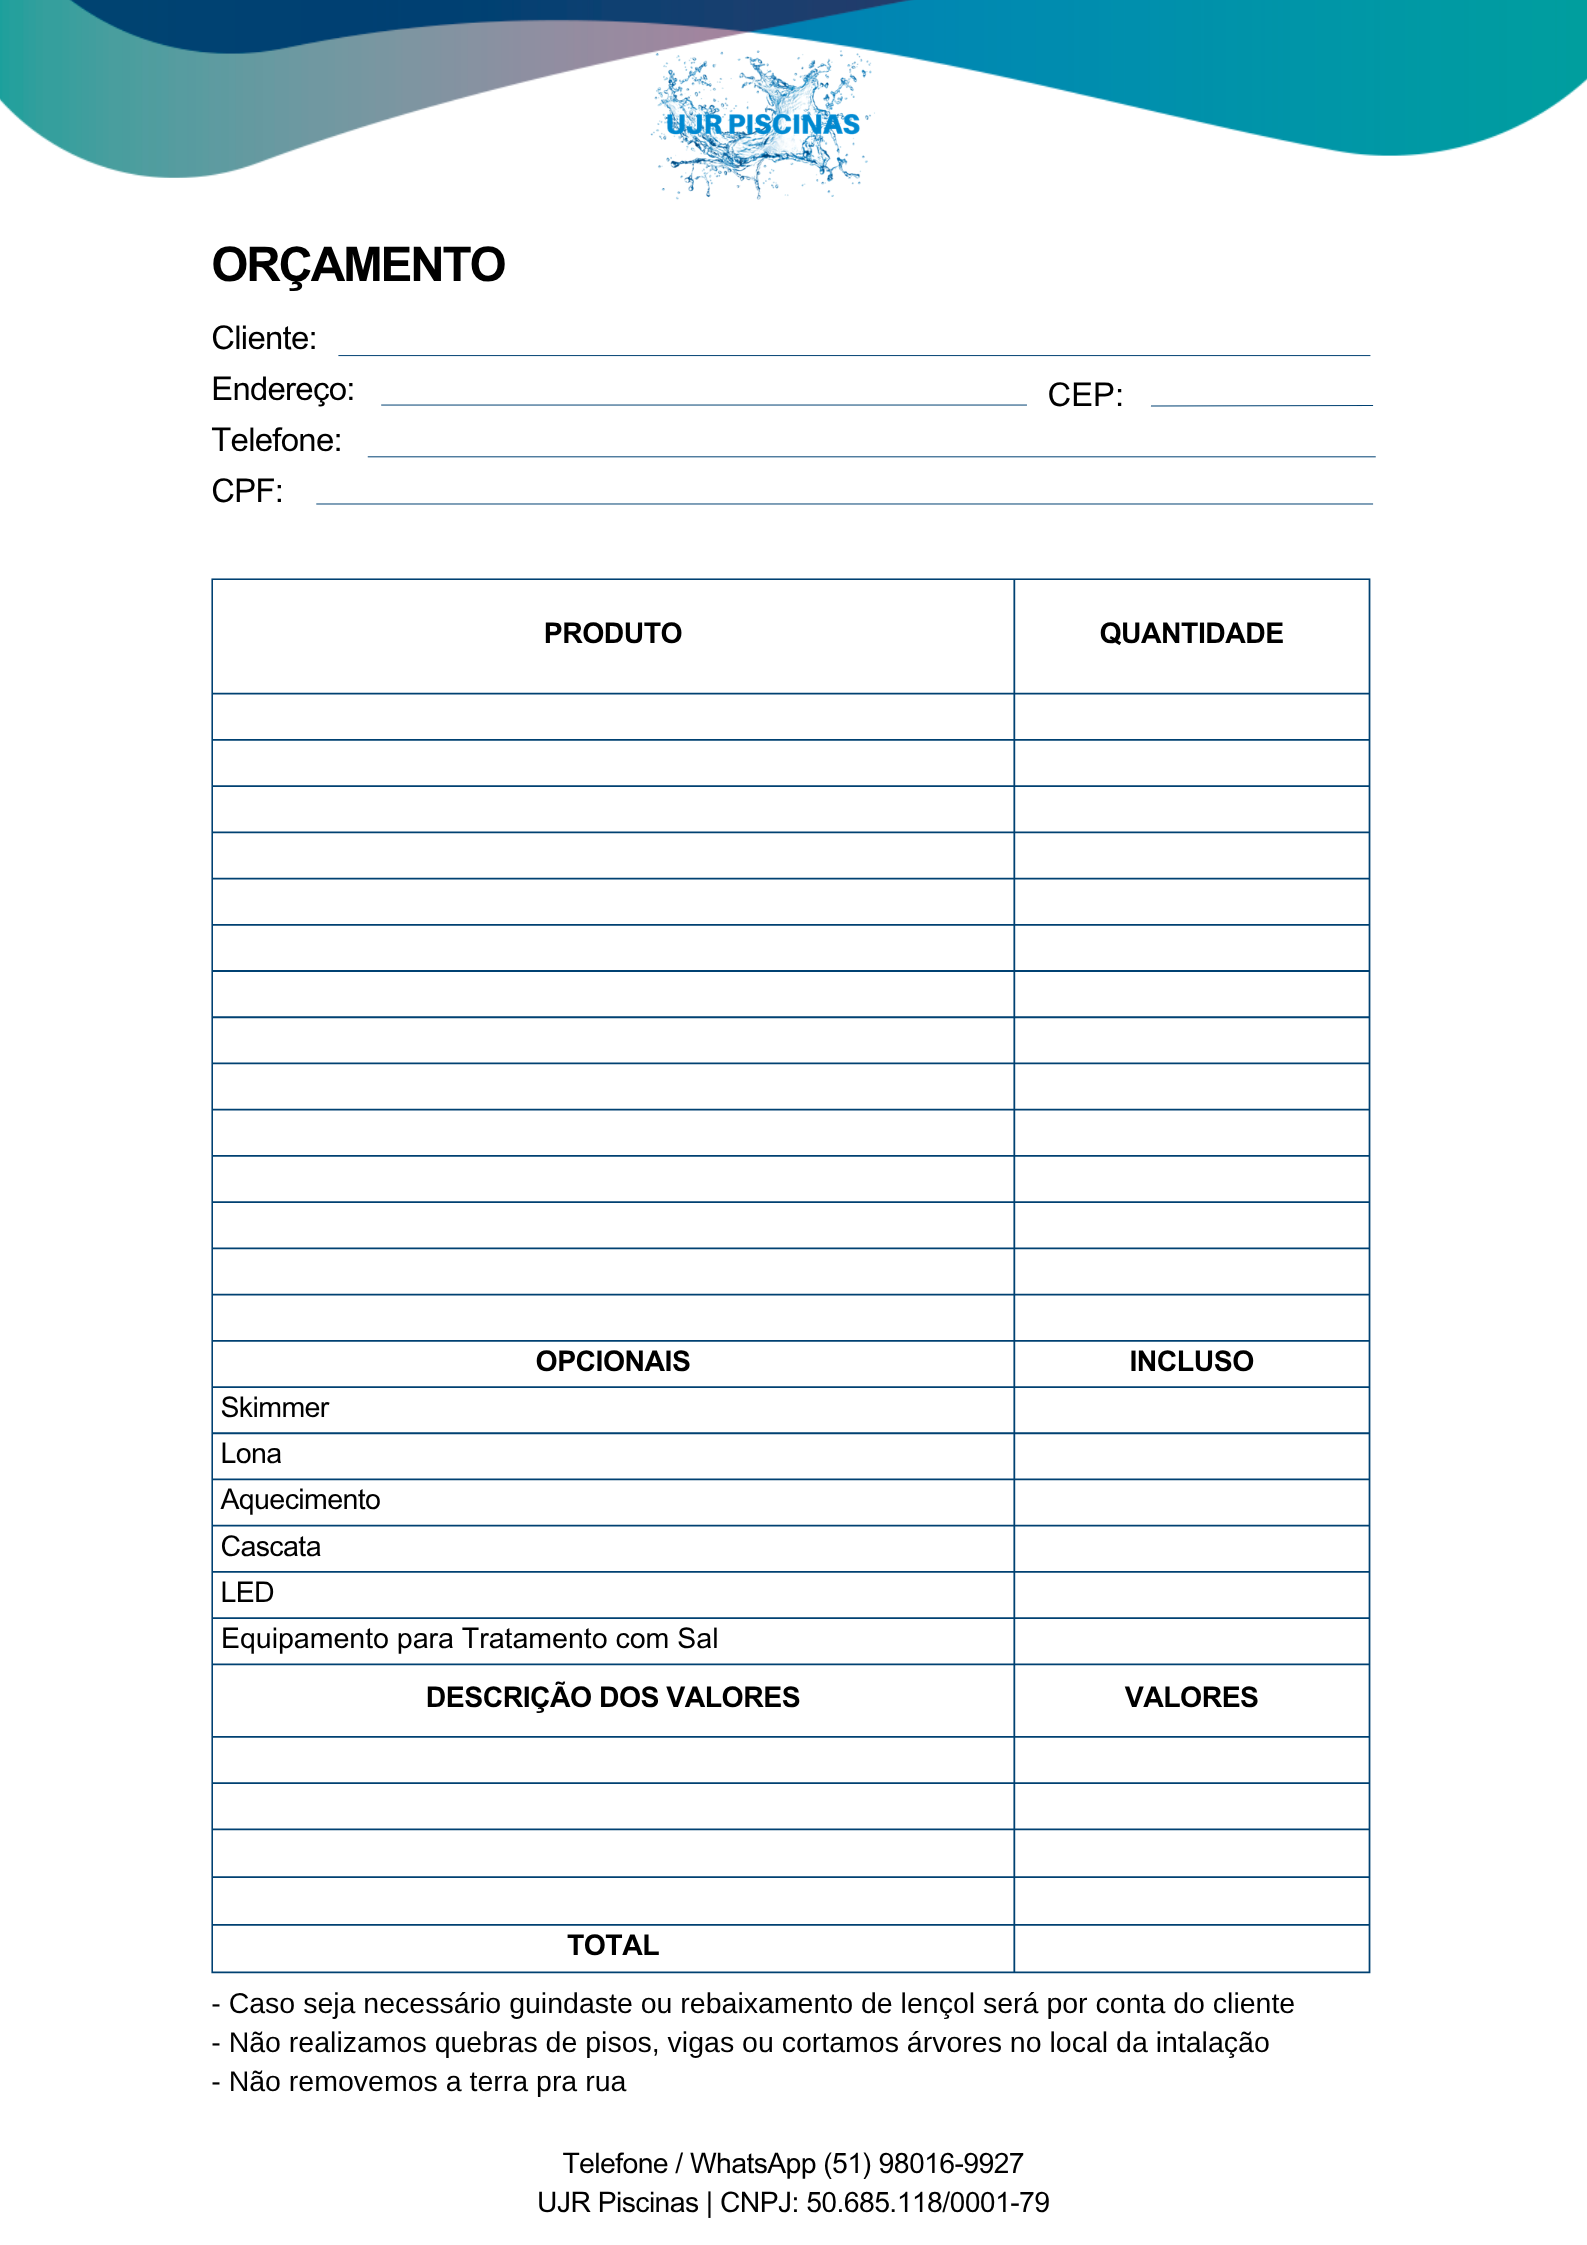
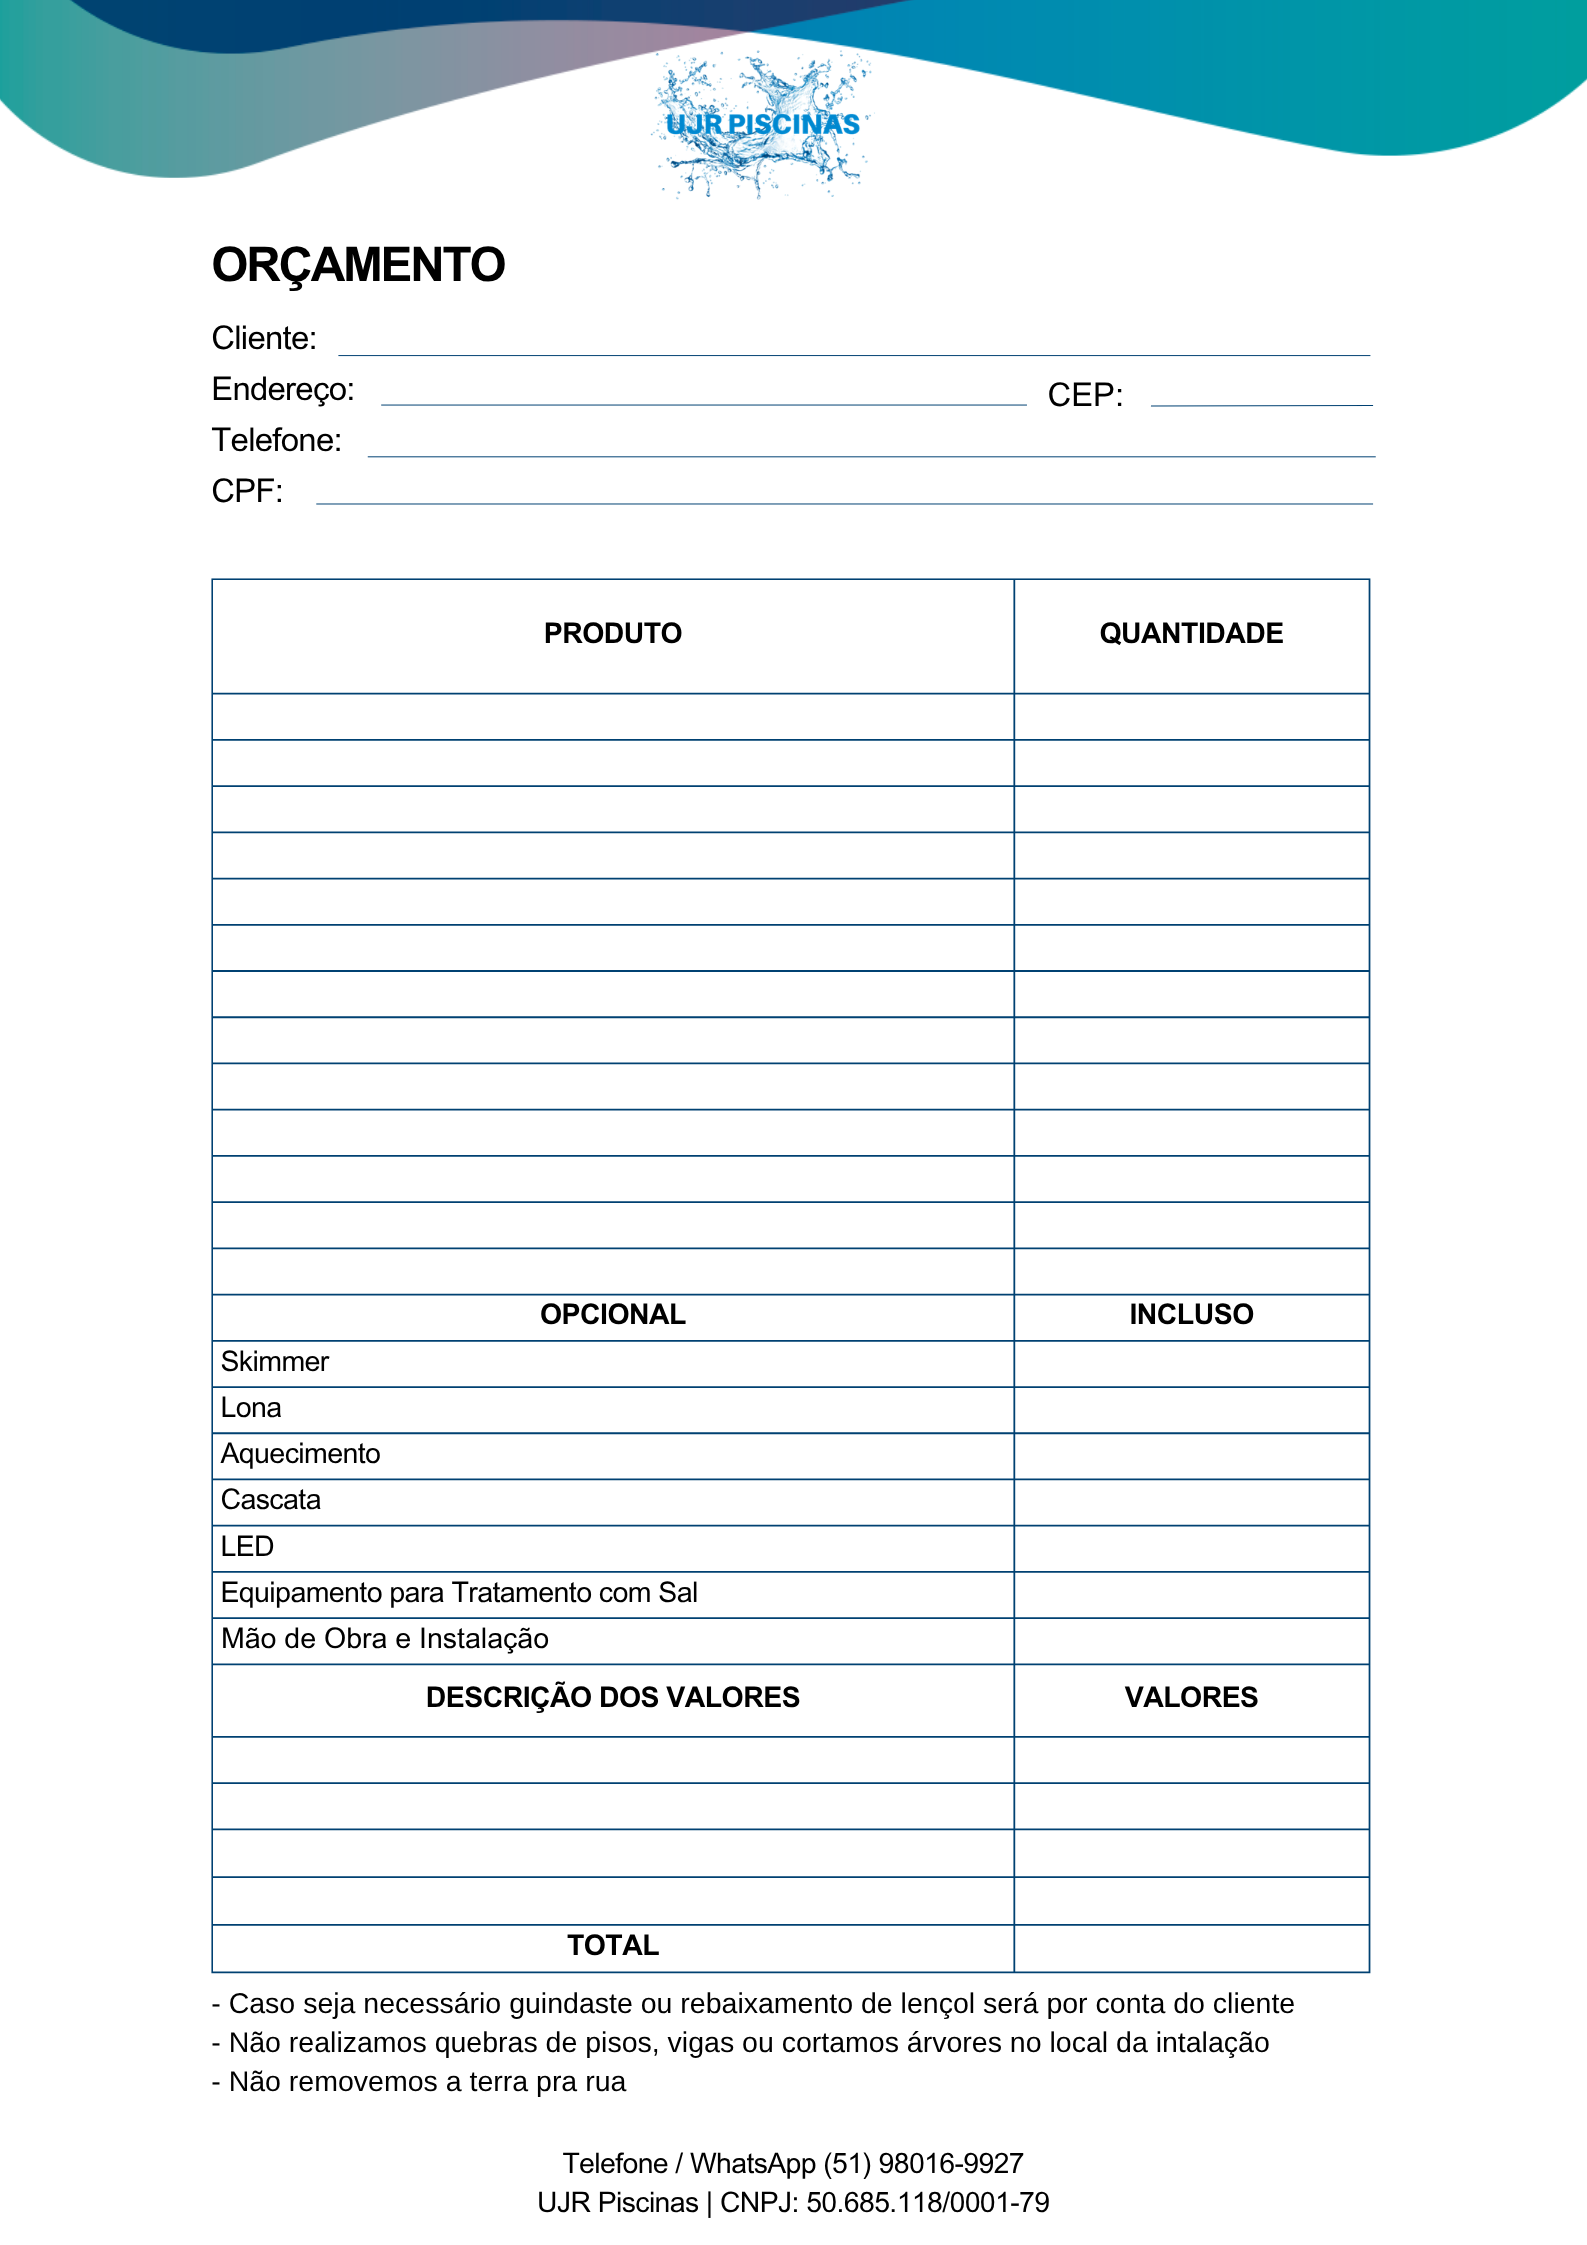
ajustado mão de obra para checkbox

diff --git a/Gerador.py b/Gerador.py
@@ -32,7 +32,7 @@ def submit():
     motor = motor_entry.get()
     nome_piscina = nome_piscina_entry.get()
     quant_hidro = quant_hidro_entry.get()
-    mao_de_obra = mao_de_obra_entry.get()
+    mao_de_obra_incluso = mao_de_obra_entry.get()
     skimmer = skimmer_entry.get()
     lona = lona_entry.get()
     aquecimento = aquec_entry.get()
@@ -57,7 +57,6 @@ def submit():
         frete = int(frete)
         valor_aquec = int(valor_aquec)
         quant_hidro = int(quant_hidro)
-        mao_de_obra = int(mao_de_obra)
         quantidade_LED = int(quantidade_LED) if possui_LED else 0
     except ValueError:
         tk.messagebox.showerror('Erro', 'Valores numéricos inválidos!')
@@ -76,32 +75,38 @@ def submit():
     pos_sim = 155
     pos_nao = 154.5
 
-    pos_sal = 220.95  
+    pos_sal = 214.70  
     if tratamento_sal:
         doc.text(pos_sim, pos_sal, 'SIM')
     else:
         doc.text(pos_nao, pos_sal, 'NÃO')
 
     if skimmer:
+        doc.text(pos_sim, 183.45, 'SIM')
+    else:
+        doc.text(pos_nao, 183.45, 'NÃO')
+    if lona:
         doc.text(pos_sim, 189.7, 'SIM')
     else:
         doc.text(pos_nao, 189.7, 'NÃO')
-    if lona:
+    if aquecimento:
         doc.text(pos_sim, 195.95, 'SIM')
     else:
         doc.text(pos_nao, 195.95, 'NÃO')
-    if aquecimento:
+    if cascata:
         doc.text(pos_sim, 202.2, 'SIM')
     else:
         doc.text(pos_nao, 202.2, 'NÃO')
-    if cascata:
+    if possui_LED:
         doc.text(pos_sim, 208.45, 'SIM')
     else:
         doc.text(pos_nao, 208.45, 'NÃO')
-    if possui_LED:
-        doc.text(pos_sim, 214.70, 'SIM')
+
+    pos_mao_de_obra = 220.95  # verificar alinhamento com o template
+    if mao_de_obra_incluso:
+        doc.text(pos_sim, pos_mao_de_obra, 'SIM')
     else:
-        doc.text(pos_nao, 214.70, 'NÃO')
+        doc.text(pos_nao, pos_mao_de_obra, 'NÃO')
 
 
 
@@ -133,14 +138,12 @@ def submit():
     doc.text(29.5, 237.07, 'Piscina')
     doc.text(29.5, 243.32, 'Frete')
     doc.text(29.5, 249.57, 'Aquecimento')
-    doc.text(29.5, 255.82, 'Mão de Obra e Instalação')
 
-    valor_total = valor_piscina + frete + valor_aquec + mao_de_obra
+    valor_total = valor_piscina + frete + valor_aquec
 
     doc.text(149, 237.07, f'R$ {valor_piscina},00')
     doc.text(150, 243.32, f'R$ {frete},00')
     doc.text(150, 249.57, f'R$ {valor_aquec},00')
-    doc.text(150, 255.82, f'R$ {mao_de_obra},00')
 
     #total
     doc.text(149, 261.35, f'R$ {valor_total},00')
@@ -162,7 +165,7 @@ def clear():
     motor_entry.delete(0, END)
     nome_piscina_entry.delete(0, END)
     quant_hidro_entry.delete(0, END)
-    mao_de_obra_entry.delete(0, END)
+    mao_de_obra_entry.deselect()
     quant_LED.delete(0, END)
     cor_LED.set('Escolha a Cor do LED')
     LED_entry.deselect()
@@ -204,8 +207,8 @@ nome_piscina_entry = ctk.CTkEntry(app, width=250, height=30, corner_radius=10, p
 nome_piscina_entry.place(x=30, y=260)
 quant_hidro_entry = ctk.CTkEntry(app, width=190, height=30, corner_radius=10, placeholder_text='Quantidade de Hidromassagens')
 quant_hidro_entry.place(x=300, y=260)
-mao_de_obra_entry = ctk.CTkEntry(app, width=220, height=30, corner_radius=10, placeholder_text='Valor Mão de Obra e Instalação')
-mao_de_obra_entry.place(x=510, y=260)
+mao_de_obra_entry = ctk.CTkCheckBox(app, height=20, width=60, text='Mão de Obra e Instalação')
+mao_de_obra_entry.place(x=30, y=580)
 valor_aquecimento = ctk.CTkEntry(app, width=150, height=30, corner_radius=10, placeholder_text='Valor Aquecimento')
 valor_aquecimento.place(x=170, y=460)
 titulo_opc = ctk.CTkLabel(app, width=60, height=20, text='Opcionais:', font=('Arial Black', 20))
@@ -219,18 +222,18 @@ aquec_entry.place(x=30, y=460)
 cascata_entry = ctk.CTkCheckBox(app, height=20, width=60, text='Cascata')
 cascata_entry.place(x=30, y=500)
 LED_entry = ctk.CTkCheckBox(app, height=20, width=60, text='LED')
-LED_entry.place(x=30, y=580)
+LED_entry.place(x=30, y=620)
 quant_LED = ctk.CTkEntry(app, width=150, height=30, corner_radius=10, placeholder_text='Quantidade de LED(s)')
-quant_LED.place(x=170, y=580)
+quant_LED.place(x=170, y=620)
 cor_LED = ctk.CTkOptionMenu(app, values=['Azul', 'Colorido'], height=28)
 cor_LED.set('Escolha a Cor do LED')
-cor_LED.place(x=340, y=580)
+cor_LED.place(x=340, y=620)
 sal_entry = ctk.CTkCheckBox(app, height=20, width=60, text='Tratamento com Sal')
 sal_entry.place(x=30, y=540)
 botao_submit = ctk.CTkButton(app, text='Gerar Orçamento', command=submit, width=150, height=30)
-botao_submit.place(x=240, y=650)
+botao_submit.place(x=240, y=690)
 botao_clear = ctk.CTkButton(app, text='Limpar Informações', command=clear, width=150, height=30)
-botao_clear.place(x=600, y=650)
+botao_clear.place(x=600, y=690)
 app.mainloop()
 
 '''Não rodar esse comando no código, sim no CMD'''
